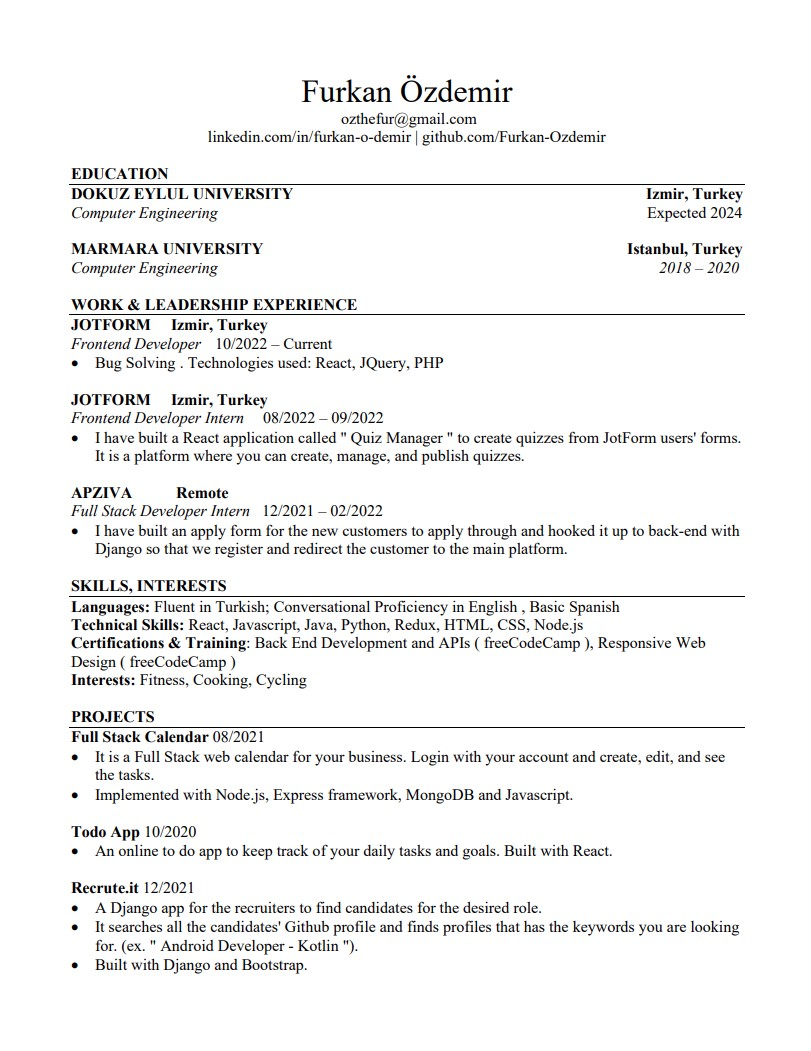
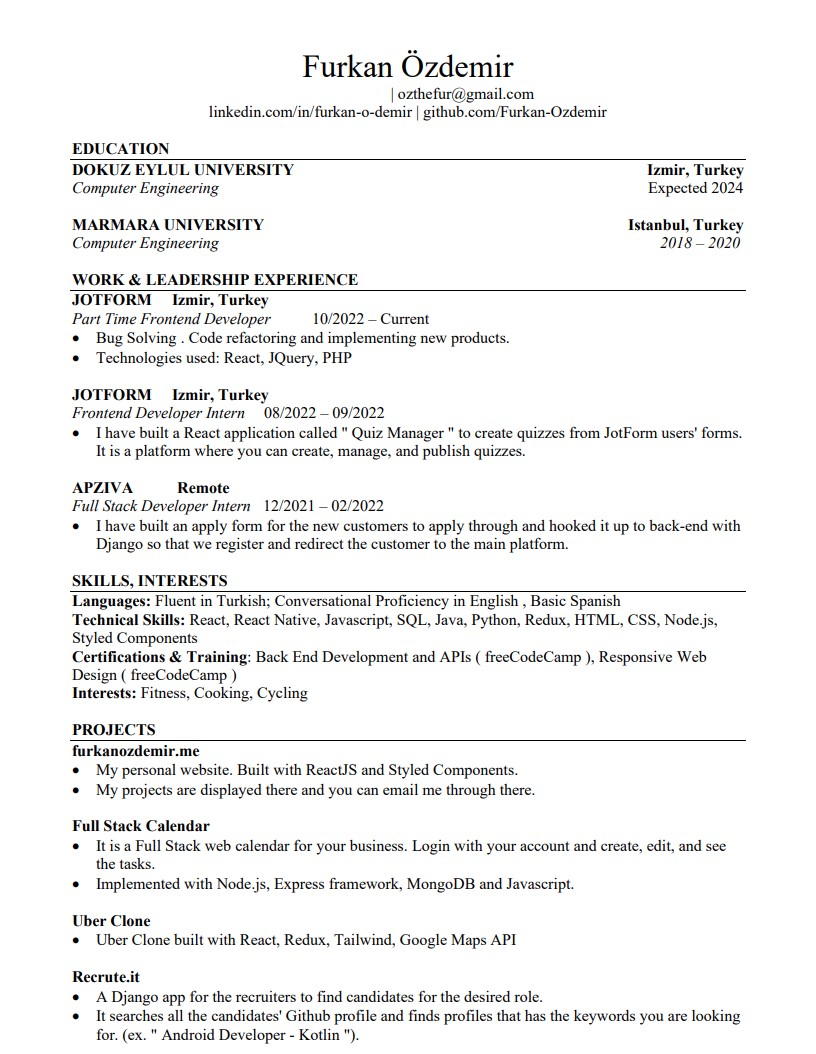
new project added and cv updated

Changed region(s): [[0.0617, 0.0304, 0.9248, 1.0], [0.7707, 0.1522, 0.9248, 0.274]]

diff --git a/src/Folder.js b/src/Folder.js
@@ -285,6 +285,12 @@ const Folder = (props) => {
             repoName="dynamic-programming"
             id="dynamicProgramming"
           />
+          <ProjectItem
+            setIsResume={setIsResume}
+            projectName="Uber Clone"
+            repoName="uber-clone"
+            id="uber-clone"
+          />
         </WhiteSpace>
       </MainWrapper>
     </FolderWrapper>
